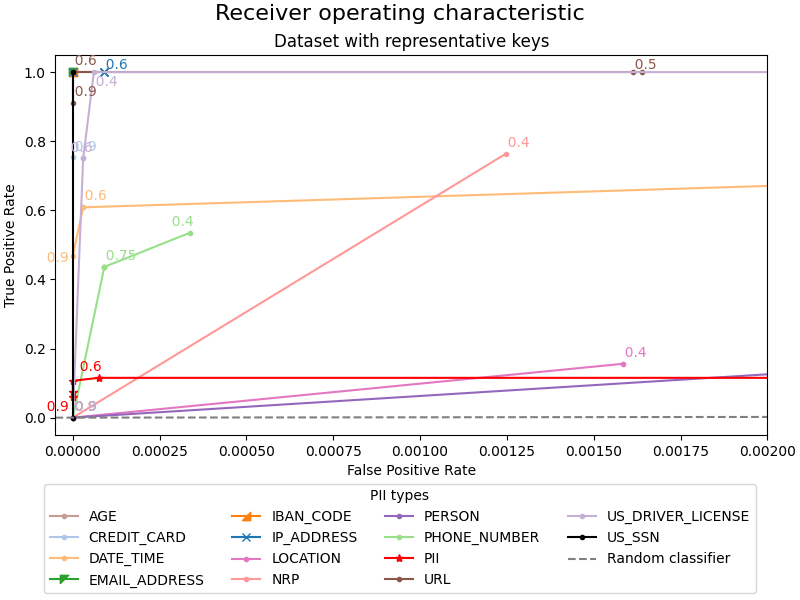
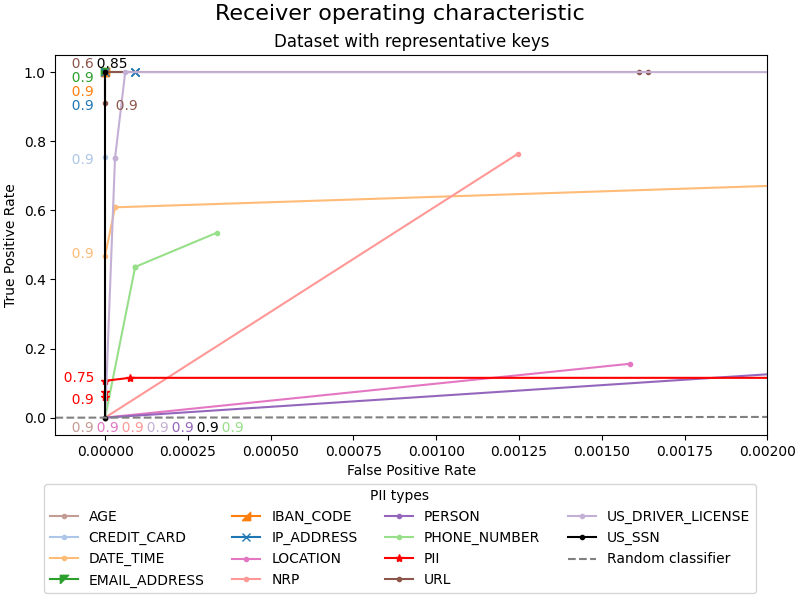
feat: adjust labels on random and representative graphs

diff --git a/presidio_evaluator/evaluation/plotter_for_multiple_evaluations.py b/presidio_evaluator/evaluation/plotter_for_multiple_evaluations.py
@@ -112,8 +112,8 @@ class PlotterForMultipleEvaluations:
                     marker = "."
             ax.plot(grp["fpr"], grp["recall"], data=grp, label=pii_type, marker=marker, color=color)
             for (fpr, recall, threshold) in zip(grp["fpr"], grp["recall"], grp["threshold"]):
-                if PlotterForMultipleEvaluations.should_annotate(pii_type, threshold, is_log):
-                    offset_for_this_point = PlotterForMultipleEvaluations.get_label_position(masked_or_random, pii_type, threshold)
+                if PlotterForMultipleEvaluations.should_annotate(pii_type, threshold, is_log, fpr):
+                    offset_for_this_point = PlotterForMultipleEvaluations.get_label_position(masked_or_random, pii_type, threshold, is_log)
                     ax.annotate("  %s" % threshold, xy=(fpr, recall), xytext=offset_for_this_point,
                                 textcoords="offset points", color=color)
             colorcount += 1
@@ -126,7 +126,7 @@ class PlotterForMultipleEvaluations:
             ax.set_yscale("log")
             is_log_str = "_log_axes"
         else:
-            ax.set_xlim(-0.00005, 0.002)
+            ax.set_xlim(-0.00015, 0.002)
             ax.axline((0, 0), slope=1, linestyle="--", label="Random classifier", color="gray")
             is_log_str = "_normal_axes"
         title_keyword = "representative" if masked_or_random == "masked" else masked_or_random
@@ -160,7 +160,82 @@ class PlotterForMultipleEvaluations:
         experiment.end()
 
     @staticmethod
-    def get_label_position(masked_or_random: str, pii_type:str, threshold:float) -> Tuple[int, int]:
+    def get_label_position(masked_or_random: str, pii_type:str, threshold:float, is_log: bool) -> Tuple[int, int]:
+        if not is_log:
+            length_of_single_digit = 18
+            label_height = 10
+            default_double_digit_xoffset = -36
+            default_single_digit_xoffset = -30
+            default_top_height_yoffset = 3
+
+            if pii_type == "AGE":
+                return {
+                    0.9: (default_single_digit_xoffset, -10)
+                }.get(threshold)
+            if pii_type == "CREDIT_CARD":
+                return {
+                    0.9: (default_single_digit_xoffset, -5),
+                }.get(threshold)
+            if pii_type == "DATE_TIME":
+                return {
+                    0.9: (default_single_digit_xoffset, -2)
+                }.get(threshold)
+            if pii_type == "EMAIL_ADDRESS":
+                return {
+                    0.9: (default_single_digit_xoffset, default_top_height_yoffset - 1 * label_height)
+                }.get(threshold)
+            if pii_type == "IBAN_CODE":
+                return {
+                    0.9: (default_single_digit_xoffset, default_top_height_yoffset - 2 * label_height)
+                }.get(threshold)
+            if pii_type == "IP_ADDRESS":
+                return {
+                    0.3: (default_single_digit_xoffset, default_top_height_yoffset - 3 * label_height),
+                    0.9: (default_single_digit_xoffset, -5)
+                        if masked_or_random == "random"
+                        else (default_single_digit_xoffset, default_top_height_yoffset - 3 * label_height),
+                }.get(threshold)
+            if pii_type == "LOCATION":
+                return {
+                    0.9: (default_single_digit_xoffset + length_of_single_digit, -10),
+                }.get(threshold)
+            if pii_type == "NRP":
+                return {
+                    0.9: (default_single_digit_xoffset + 2 * length_of_single_digit, -10)
+                }.get(threshold)
+            if pii_type == "PERSON":
+                return {
+                    0.9: (default_single_digit_xoffset + 4 * length_of_single_digit, -10)
+                }.get(threshold)
+            if pii_type == "PHONE_NUMBER":
+                return {
+                    0.75: (default_double_digit_xoffset, -5),
+                    0.9: (default_single_digit_xoffset + 6 * length_of_single_digit, -10)
+                }.get(threshold)
+            if pii_type == "PII":
+                return {
+                    0.75: (default_double_digit_xoffset, -1),
+                    0.9: (default_single_digit_xoffset, -5)
+                }.get(threshold)
+            if pii_type == "URL":
+                return {
+                    0.6: (default_single_digit_xoffset, default_top_height_yoffset),
+                    0.9: (default_single_digit_xoffset, -9)
+                        if masked_or_random == "random"
+                        else (default_single_digit_xoffset + 1.75 * length_of_single_digit, -5)
+                }.get(threshold)
+            if pii_type == "US_DRIVER_LICENSE":
+                return {
+                    0.9: (default_single_digit_xoffset + 3 * length_of_single_digit, -10)
+                }.get(threshold)
+            if pii_type == "US_SSN":
+                return {
+                    0.85: (-12, default_top_height_yoffset),
+                    0.9: (default_single_digit_xoffset + 5 * length_of_single_digit, -10),
+                }.get(threshold)
+
+            raise ValueError('unhandled PII type')
+
         default_offsets = (-5, 5)
         labelxoffset, labelyoffset = default_offsets
         if pii_type == "US_DRIVER_LICENSE":
@@ -221,7 +296,16 @@ class PlotterForMultipleEvaluations:
         return mapping[pii_type]
 
     @staticmethod
-    def should_annotate(pii_type: str, threshold: float, is_log: True) -> bool:
+    def should_annotate(pii_type: str, threshold: float, is_log: bool, fpr: float) -> bool:
+        if not is_log:
+            if fpr != 0:
+                return False
+
+            if pii_type == "PII" and threshold == 0.85:
+                return False
+
+            return True
+
         if pii_type == "EMAIL_ADDRESS" or pii_type == "IBAN_CODE" or pii_type == "US_SSN":
             return False
         if threshold == 0.45 or threshold == 0.75 or threshold == 0.85:
